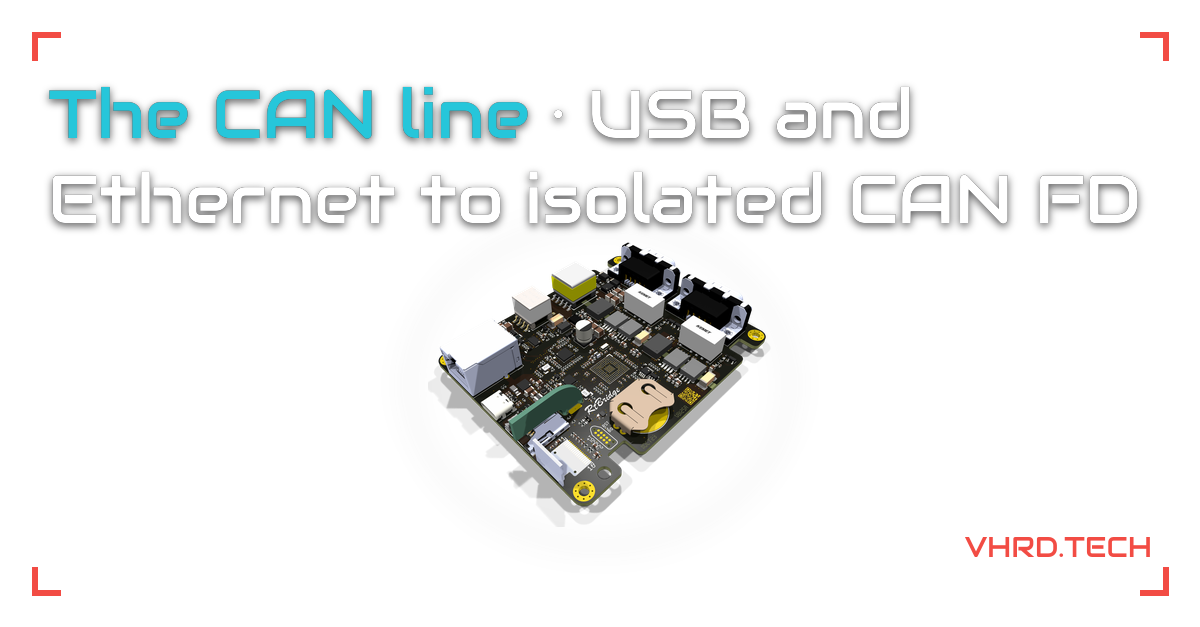
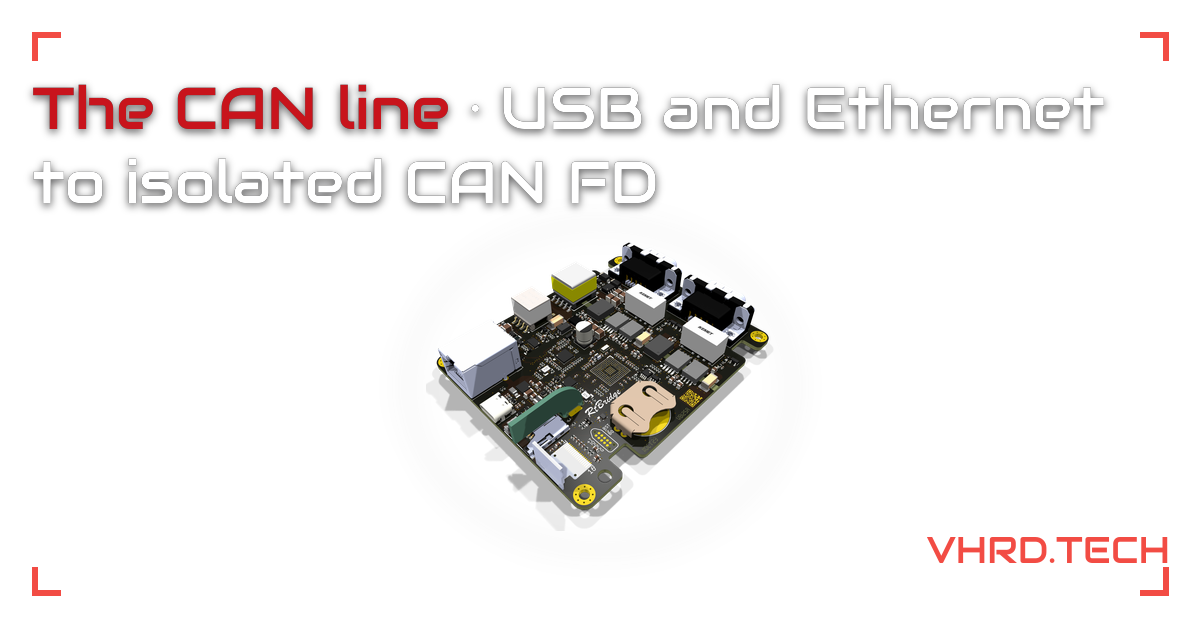
Share images, round 5: red name back, flush edges, more gap
- The product name before " · " is VHRD red (#c8141c, --vhrd-red /
  light.accent) again, on every image: red was dropped for a signal
  colour last round, but Roman wants the brand red back. The corners
  and the wordmark keep their own #f24c44, unchanged.
- The headline's first line and the wordmark now sit flush with the
  frame's own left and right edges (the ink itself, not a font's or a
  raster's side bearing): "the D of Donguru" lands exactly on the left
  corners' outer vertical stroke, the last H of VHRD.TECH on the right
  corners'.
- A clearly visible gap now separates the headline from the board (it
  sat right on top of it before); the wordmark is about 1.3x bigger,
  still with a clear gap from the board. The headline drops to a
  uniform 42px cap height (still well past "no small print") to make
  room for both without crowding the frame's own margins.

Changed region(s): [[0.0308, 0.1212, 0.9558, 0.8182], [0.7708, 0.8485, 0.9867, 0.9091]]

diff --git a/tools/og_images.py b/tools/og_images.py
@@ -61,6 +61,9 @@ JPEG_QUALITY = 90  # no subsampling (4:4:4) and not progressive, so a scraper th
 # a progressive JPEG (or one that chokes on 4:2:0 chroma) still gets the whole, sharp image
 
 RED = (242, 76, 68, 255)  # vhrd_brand dark.red (#f24c44): the corner marks and the wordmark only, never text
+TEXT_RED = (0xc8, 0x14, 0x1c, 255)  # vhrd_brand --vhrd-red / light.accent (#c8141c): the headline's product
+# name, on every image alike (Roman, round 5, "one more round" pass, 6 Nov 2026) — a different red from the
+# corners' and wordmark's #f24c44, which stays theirs only.
 INK = (26, 26, 26, 255)  # vhrd_brand light.text (#1a1a1a): the JPEG headline's body colour, solid, on white
 WHITE = (255, 255, 255, 255)  # the PNG headline's body colour, solid, with a soft dark shadow (SHADOW_* below)
 GLOW = (255, 255, 255, 16)  # a faint halo behind the board, just enough that a dark board's edge doesn't vanish
@@ -72,81 +75,62 @@ MARK_LEN, MARK_W = 28, 5  # the corner marks' leg length and thickness, like .fi
 # round 5, 6 Nov 2026).
 FRAME_MARGIN = 32
 # Everything — headline, board, wordmark — stays inside the corner-marked frame with its own margin, clear of
-# the corner marks' own legs too.
+# the corner marks' own legs too. The bottom margin is a little tighter than the top's: there is no headline
+# text to clear down there, only the wordmark's own row.
 CONTENT_PAD_X = 16
-CONTENT_PAD_Y = MARK_LEN + 10
+CONTENT_PAD_Y_TOP = MARK_LEN + 10
+CONTENT_PAD_Y_BOTTOM = MARK_LEN + 4
 
-# The headline: Audiowide (the wordmark's face), left-aligned at the top of the frame, wrapped to at most two
-# lines, shrinking from HEAD_TARGET_CAP down to HEAD_MIN_CAP ("no small print") if it does not fit. The words
-# up to " · " (the product headlines below) are set in that page's own signal colour (`sig`, the same one its
-# traces use on the real page) rather than the brand red, which is reserved for the corners and the wordmark;
-# the rest is the body colour (AGENTS.md "Conventions", Roman, round 5, 6 Nov 2026).
-HEAD_TARGET_CAP = 48
-HEAD_MIN_CAP = 40
+# The headline: Audiowide (the wordmark's face), its capital letters' ink flush with the left corners' own
+# outer edge (not an extra inset — "the D of Donguru" sits on the imaginary line the corner marks' vertical
+# strokes draw), wrapped to at most two lines at HEAD_TARGET_CAP ("no small print"; every headline below fits
+# two lines there, so there is no further shrink floor this round). The words up to " · " (the product
+# headlines below) are set in TEXT_RED; the rest is the body colour (AGENTS.md "Conventions", Roman, round 5,
+# 6 Nov 2026).
+HEAD_TARGET_CAP = 42
+HEAD_MIN_CAP = 40  # a floor, not reached by any headline below at the current width; kept for a future one
 HEAD_MAX_LINES = 2
 HEAD_LINE_PITCH_FACTOR = 1.25
-HEAD_BLOCK_H = 156  # reserved above the board, fixed across pages so the board sits at the same height on each
-HEAD_BOARD_GAP = 16
+HEAD_BLOCK_H = 140  # reserved above the board, fixed across pages so the board sits at the same height on each
+HEAD_BOARD_GAP = 32  # a clearly visible gap: the headline sat right on top of the board before this (Roman,
+# round 5, "one more round" pass, 6 Nov 2026)
 
 # The board's own bounding box (the render's margin is transparent) is scaled to fit this box, centred
 # horizontally on the canvas and vertically in the band below the headline and above the wordmark, well inside
 # the HxH square a square crop keeps.
 SAFE_W = 580
-WORDMARK_H = 20
-BOARD_WORDMARK_GAP = 10
+WORDMARK_H = 26  # 1.3x the wordmark's previous 20px (Roman, round 5, "one more round" pass, 6 Nov 2026)
+BOARD_WORDMARK_GAP = 6
 # A soft dark shadow behind the white PNG headline (not an outline, which read as hollow), so it still reads on
 # a light background once a platform composites the transparency away.
 SHADOW_COLOR = (8, 8, 10, 170)
 SHADOW_OFFSET = (0, 3)
 SHADOW_BLUR = 4
 
-# The page's own signal colour (vhrd_brand web/tokens.css, the same one its traces use for this `sig`) for the
-# headline's product name, on white (the JPEG) and on black (the PNG, the dark-theme value, already lightened
-# enough for 4.5:1 there). --signal-power on white is only about 3:1, too weak for text, so that one case falls
-# back to the brand's --warning (#775403, 6.9:1), the next darker warm brand colour, rather than computing one
-# of our own (Roman, round 5, 6 Nov 2026).
-SIGNAL_LIGHT = {
-    "power": (0x77, 0x54, 0x03, 255),  # --warning, standing in for --signal-power (too weak on white)
-    "usb": (0x15, 0x65, 0xc0, 255),
-    "bus": (0x2e, 0x7d, 0x32, 255),
-    "can": (0x00, 0x83, 0x8f, 255),
-    "analog": (0x6a, 0x1b, 0x9a, 255),
-    "ctrl": (0x6e, 0x6e, 0x6e, 255),
-}
-SIGNAL_DARK = {
-    "power": (0xff, 0x9a, 0x3c, 255),
-    "usb": (0x5c, 0x9c, 0xf5, 255),
-    "bus": (0x5c, 0xb8, 0x60, 255),
-    "can": (0x26, 0xc6, 0xda, 255),
-    "analog": (0xb4, 0x7c, 0xd8, 255),
-    "ctrl": (0x9a, 0x9a, 0x9a, 255),
-}
-
 # the image's base name (static/img/og/<name>.png, transparent, for twitter:image, and <name>.jpg, flattened
-# onto white, for og:image), the board's render directory, its view, the image's alt text, the headline, and
-# the page's own `sig` (its signal colour, for the product name before " · "; None where there is no name).
+# onto white, for og:image), the board's render directory, its view, the image's alt text, and the headline.
 # Each name carries a version so LinkedIn, Facebook and Telegram, which cache a preview by its image URL, fetch
 # the new file instead of one they already have: "-4" for this round's headline and the /donguru image split
 # off the site default (Roman, round 5 of link previews, 6 Nov 2026).
 IMAGES = [
     ("default-4", "b153-donguru", "hero",
      "Donguru (B153), a USB-C dongle PCB, framed by red corner marks and the VHRD.TECH wordmark",
-     "Instruments for embedded development", None),
+     "Instruments for embedded development"),
     ("donguru-4", "b153-donguru", "hero",
      "Donguru (B153), a USB-C dongle PCB, framed by red corner marks and the VHRD.TECH wordmark",
-     "Donguru · one cable from your PC to your board", "usb"),
+     "Donguru · one cable from your PC to your board"),
     ("pinsmith-4", "b200-re-port", "hero",
      "Pinsmith (B200), a USB I/O PCB, framed by red corner marks and the VHRD.TECH wordmark",
-     "Pinsmith · digital and analog I/O over USB", "bus"),
+     "Pinsmith · digital and analog I/O over USB"),
     ("can-4", "b125-eth-2fdcan", "hero",
      "An Ethernet to dual isolated CAN FD bridge PCB (B125), framed by red corner marks and the VHRD.TECH wordmark",
-     "The CAN line · USB and Ethernet to isolated CAN FD", "can"),
+     "The CAN line · USB and Ethernet to isolated CAN FD"),
     ("software-4", "b129-cannify-micro", "hero",
      "CANnify Micro (B129), a breadboard CAN FD node PCB, framed by red corner marks and the VHRD.TECH wordmark",
-     "The software for our instruments", "usb"),
+     "The software for our instruments"),
     ("work-4", "b135-usb-fdcan", "hero",
      "A USB to isolated CAN FD bridge PCB (B135), framed by red corner marks and the VHRD.TECH wordmark",
-     "Boards and projects from the VHRD lab", "analog"),
+     "Boards and projects from the VHRD lab"),
 ]
 
 # Backgrounds the transparent PNG (twitter:image) might be filled with instead of its own alpha: X's three
@@ -173,7 +157,7 @@ def content_box():
     """The frame's interior, clear of the corner marks' own legs: everything drawn (headline, board, wordmark)
     stays inside this box."""
     fx0, fy0, fx1, fy1 = frame_box()
-    return fx0 + CONTENT_PAD_X, fy0 + CONTENT_PAD_Y, fx1 - CONTENT_PAD_X, fy1 - CONTENT_PAD_Y
+    return fx0 + CONTENT_PAD_X, fy0 + CONTENT_PAD_Y_TOP, fx1 - CONTENT_PAD_X, fy1 - CONTENT_PAD_Y_BOTTOM
 
 
 def board_render(board_dir, view):
@@ -188,11 +172,13 @@ def board_render(board_dir, view):
 
 def wordmark_png(width, height):
     """The VHRD.TECH wordmark (static/img/wordmark.svg), recoloured to a single red that reads on white and on
-    black alike, rasterised to the given pixel size with a transparent background."""
+    black alike, rasterised to the given pixel size with a transparent background, then cropped to its own ink
+    (not the raster canvas, which may carry a little padding) so the caller can align its right edge exactly."""
     svg = (ROOT / "static/img/wordmark.svg").read_text()
     svg = re.sub(r'fill="#[0-9a-fA-F]{6}"', f'fill="rgb{RED[:3]}"', svg)
     png_bytes = cairosvg.svg2png(bytestring=svg.encode(), output_width=width, output_height=height)
-    return Image.open(io.BytesIO(png_bytes)).convert("RGBA")
+    im = Image.open(io.BytesIO(png_bytes)).convert("RGBA")
+    return im.crop(im.getbbox())
 
 
 def draw_corner_marks(canvas):
@@ -247,19 +233,30 @@ def wrap_headline(headline, font, max_width, max_lines):
 
 
 def draw_headline(canvas, font_path, headline, fill, accent, shadow=False):
-    """The headline in Audiowide, left-aligned at the top of the frame's interior: up to two lines, shrinking
-    from HEAD_TARGET_CAP towards HEAD_MIN_CAP if it does not fit inside the frame, the words up to " · " in
-    accent (the page's own signal colour, or fill when there is no product name). shadow draws a soft dark halo
-    behind it first (the PNG variant, for a light background), rather than an outline."""
-    cx0, cy0, cx1, _ = content_box()
-    max_width = cx1 - cx0
+    """The headline in Audiowide: up to two lines at HEAD_TARGET_CAP (shrinking towards HEAD_MIN_CAP if one
+    somehow does not fit), the words up to " · " in accent (TEXT_RED), the rest in fill. The first line's
+    leading glyph's own ink — not its left side bearing — sits flush on the frame's left edge (the same line
+    the left corner marks' outer vertical edge draws), so it reads as "inside the frame" exactly, not inset
+    from it (Roman, round 5, "one more round" pass, 6 Nov 2026). shadow draws a soft dark halo behind the text
+    first (the PNG variant, for a light background), rather than an outline."""
+    fx0, _, fx1, _ = frame_box()
+    cy0 = content_box()[1]
     cap = HEAD_TARGET_CAP
     while True:
         font = font_for_cap_height(font_path, cap)
+        # the wrap width as if text started exactly at fx0: close enough for wrapping (the bearing correction
+        # below shifts the whole block by at most a few px) and never widens a line past the frame's own edge.
+        max_width = (fx1 - CONTENT_PAD_X) - fx0
         lines, fits = wrap_headline(headline, font, max_width, HEAD_MAX_LINES)
         if fits or cap <= HEAD_MIN_CAP:
             break
         cap -= 2
+
+    # The first glyph's own left bearing (the gap PIL's draw origin leaves before the ink starts): subtract it
+    # so the glyph's ink, not the nominal draw position, lands exactly on fx0.
+    first_word = lines[0][0][1]
+    bearing = ImageDraw.Draw(canvas).textbbox((0, 0), first_word, font=font)[0]
+    x_start = fx0 - bearing
 
     dot_at = next((i for i, w in enumerate(headline.split(" ")) if w == "·"), None)
     space = font.getlength(" ")
@@ -268,7 +265,7 @@ def draw_headline(canvas, font_path, headline, fill, accent, shadow=False):
     def paint(draw_fn):
         y = cy0
         for line in lines:
-            x = cx0
+            x = x_start
             for i, word in line:
                 colour = accent if dot_at is not None and i < dot_at else fill
                 draw_fn(x, y, word, colour)
@@ -315,10 +312,12 @@ def compose(board_dir, view, headline, font_path, headline_fill, accent, headlin
     canvas.alpha_composite(board, (x, y))
     draw_corner_marks(canvas)
 
-    # The wordmark sits in its own row at the bottom of the frame's interior, right-aligned: a fixed gap above
-    # the frame's bottom edge and below the board, so the two never touch (Roman, round 5, 6 Nov 2026).
+    # The wordmark sits in its own row at the bottom of the frame's interior, its own ink flush with the right
+    # corners' outer vertical edge (the same treatment as the headline's left edge, above), with a fixed gap
+    # above the frame's bottom edge and below the board, so the two never touch (Roman, round 5, 6 Nov 2026).
+    fx1 = frame_box()[2]
     wm = wordmark_png(round(WORDMARK_H * 13424 / 1434), WORDMARK_H)
-    wm_x, wm_y = cx1 - wm.width, cy1 - wm.height
+    wm_x, wm_y = fx1 - wm.width, cy1 - wm.height
     canvas.alpha_composite(wm, (wm_x, wm_y))
 
     draw_headline(canvas, font_path, headline, headline_fill, accent, headline_shadow)
@@ -367,17 +366,15 @@ def main():
     if W / H < MIN_CARD_RATIO:
         sys.exit(f"{W}x{H} is {W / H:.3f}:1, under the {MIN_CARD_RATIO}:1 LinkedIn needs for its large card")
     OUT.mkdir(parents=True, exist_ok=True)
-    for name, board_dir, view, _, headline, sig in IMAGES:
-        accent_light = SIGNAL_LIGHT[sig] if sig else INK
-        accent_dark = SIGNAL_DARK[sig] if sig else WHITE
-        img, bbox = compose(board_dir, view, headline, font_path, INK, accent_light)
+    for name, board_dir, view, _, headline in IMAGES:
+        img, bbox = compose(board_dir, view, headline, font_path, INK, TEXT_RED)
         # the square crop LinkedIn and messengers make from a 1.91:1 card: the middle H x H of the canvas
         square_left, square_right = (W - H) // 2, (W - H) // 2 + H
         if bbox[0] < square_left or bbox[2] > square_right:
             sys.exit(f"{name}: the board reaches x {bbox[0]}-{bbox[2]}, outside the {H}px square crop ({square_left}-{square_right})")
         # The transparent PNG, headline solid white with a soft dark shadow so it reads on X's light theme too.
         # Kept for twitter:image.
-        png_img, _ = compose(board_dir, view, headline, font_path, WHITE, accent_dark, headline_shadow=True)
+        png_img, _ = compose(board_dir, view, headline, font_path, WHITE, TEXT_RED, headline_shadow=True)
         write_image(OUT / f"{name}.png", png_img, "PNG", optimize=True)
         # The same frame flattened onto white, headline solid near-black, for og:image: quality ~90, 4:4:4
         # chroma (subsampling=0) and not progressive, so LinkedIn and Facebook show it sharp on the white card

diff --git a/FEATURES.md b/FEATURES.md
@@ -45,7 +45,7 @@ Status: ✅ done · 🚧 in progress · 📋 planned · 💡 idea · 🐛 bug
 
 - ✅ ASSET-1 board-renders: `just renders` (`scripts/render_boards.py`, uv) rebuilds `static/img/boards/<bnnn>-<slug>/` from the newest revision of each board's KiCad project in `~/git/hw`: hero (whole board, 3/4 angle, with margin), detail (tighter 3/4 close-up), top and bottom views via `kicad-cli pcb render` (transparent, raytraced, black solder mask / white silkscreen forced on a temp copy so `~/git/hw` is never touched), cropped tight, 2400px PNG source (not shipped) plus AVIF/WebP at 480/640/1280/1920px (`--variants` makes missing widths from the PNGs without KiCad), with a `manifest.toml` per board (product, revision, source file, hw git hash, per-view alt text). Silkscreen fonts are checked against `fc-list` before rendering, failing loudly on a missing one. 3D model library paths are machine-local env vars (`KICAD6..10_3DMODEL_DIR`, `VHRD_3DMODEL_DIR`), not committed. A board whose `.kicad_pcb` has no `(stackup ...)` at all (B198) gets a plain 2-layer one inserted on the temp copy before the colour patch, so it still comes out black-mask; a board with inner copper layers and no stackup fails loudly instead of guessing one. Covers the front-page boards (Donguru, Pinsmith, B125, B135), B129, B133, B107 FlexyRJ45, B146 DB-9 to Nano-Fit and B198 J-Link to Tag-Connect; board numbers as arguments (`just renders b129 b133`) render only those. The rest of `~/git/hw`'s boards are a later task.
 
-- ✅ ASSET-2 og-images: `just og` (`tools/og_images.py`, uv, Pillow and cairosvg, vhrd_brand's Audiowide ttf) writes the link-preview images under `static/img/og/`: a board's hero render, cropped to its own content, below a large Audiowide headline, inside a 1200x627 canvas (1.91:1, never 1200x630, which falls under the 1.91:1 ratio LinkedIn needs for its large card). Four red corner marks sit near the card's own edges (an even inset from the full canvas, not the square crop), enclosing the headline, the board and the wordmark with a margin, clear of the marks' own legs; the headline shrinks (a 48px cap height down to a 40px floor) to fit two lines there, the product name before " · " in that page's own signal colour (not red, which is reserved for the corners and the wordmark; `--signal-power`'s ~3:1 on white falls back to `--warning`); the board is scaled to fit a fixed band below the headline and above the wordmark's own row, so the board sits at the same height on every page and stays visible in the 627x627 square crop LinkedIn's small organic-post thumbnail and messengers make from it too — the wider corner frame and the headline are cut by that narrower crop, which is fine, since only the board needs to survive it; a faint halo sits tight to the board, and the wordmark keeps a fixed gap from it so the two never touch (round 5, Roman, 6 Nov 2026). Written twice per page, each truecolour and each name carrying a version so LinkedIn, Facebook and Telegram, which cache a preview by its image URL, fetch the new ones: a lossless RGBA PNG on a transparent background (`default-4.png`, ...; no palette quantization, which once came out blurry and posterised on LinkedIn's Post Inspector, Roman, 6 Nov 2026), headline solid white with a soft dark shadow (not an outline, which read hollow), for `twitter:image` (X reads it first and shows it on its own light or dark theme); and a JPEG (quality 90, 4:4:4 chroma, baseline not progressive) flattened onto white (`default-4.jpg`, ...), headline solid near-black, for `og:image` (LinkedIn and Facebook show a card on white and fill a transparent image's alpha with a dull grey instead, round 4, Roman, 6 Nov 2026). `templates/base.html` sets `author`, `og:site_name`, `og:locale`, `og:image`, `og:image:secure_url`, `og:image:type`, `og:image:width`/`height`/`alt` and `twitter:card` (`summary_large_image`) / `twitter:image` on every page, from `config.toml`'s `extra.og_image` / `extra.twitter_image` (the Donguru render) or a page's own (/donguru, /pinsmith, /can, /software, /work, each its own board and headline). Every page's meta description and `og:description` are 100-125 characters, the home page's naming no product. `tools/check_pages.py` checks every page's `og:image` is an absolute URL to a real 1200x627 truecolour JPEG at or above the 1.91:1 ratio matching its own width/height/secure_url meta, `twitter:image` a different, real 1200x627 truecolour PNG with an alpha channel, a non-empty alt that does not name a background colour, the description's length, and that no `og:*`/`twitter:*`/`description` meta tag appears twice. `just og --check` composites the default and /donguru images onto Facebook's and X's own card backgrounds, and at LinkedIn's small ~160px thumbnail size, into `target/shots/og5-*.png`, for a by-eye look (round 5, Roman, 6 Nov 2026)
+- ✅ ASSET-2 og-images: `just og` (`tools/og_images.py`, uv, Pillow and cairosvg, vhrd_brand's Audiowide ttf) writes the link-preview images under `static/img/og/`: a board's hero render, cropped to its own content, below a large Audiowide headline, inside a 1200x627 canvas (1.91:1, never 1200x630, which falls under the 1.91:1 ratio LinkedIn needs for its large card). Four red corner marks sit near the card's own edges (an even inset from the full canvas, not the square crop), enclosing the headline, the board and the wordmark with a margin, clear of the marks' own legs; the headline's first line's own ink sits flush with the left corners' outer edge (Audiowide, 42px cap height, up to two lines), the product name before " · " in `--vhrd-red` (`#c8141c`, not the corners'/wordmark's `#f24c44`); the board is scaled to fit a fixed band with a clear gap below the headline and above the wordmark's own row (a first pass sat the board right under the text), so the board sits at the same height on every page and stays visible in the 627x627 square crop LinkedIn's small organic-post thumbnail and messengers make from it too — the wider corner frame and the headline are cut by that narrower crop, which is fine, since only the board needs to survive it; a faint halo sits tight to the board; the wordmark (about 1.3x its first-round size) keeps a fixed gap from the board and its own ink sits flush with the right corners' outer edge (round 5, Roman, 6 Nov 2026). Written twice per page, each truecolour and each name carrying a version so LinkedIn, Facebook and Telegram, which cache a preview by its image URL, fetch the new ones: a lossless RGBA PNG on a transparent background (`default-4.png`, ...; no palette quantization, which once came out blurry and posterised on LinkedIn's Post Inspector, Roman, 6 Nov 2026), headline solid white with a soft dark shadow (not an outline, which read hollow), for `twitter:image` (X reads it first and shows it on its own light or dark theme); and a JPEG (quality 90, 4:4:4 chroma, baseline not progressive) flattened onto white (`default-4.jpg`, ...), headline solid near-black, for `og:image` (LinkedIn and Facebook show a card on white and fill a transparent image's alpha with a dull grey instead, round 4, Roman, 6 Nov 2026). `templates/base.html` sets `author`, `og:site_name`, `og:locale`, `og:image`, `og:image:secure_url`, `og:image:type`, `og:image:width`/`height`/`alt` and `twitter:card` (`summary_large_image`) / `twitter:image` on every page, from `config.toml`'s `extra.og_image` / `extra.twitter_image` (the Donguru render) or a page's own (/donguru, /pinsmith, /can, /software, /work, each its own board and headline). Every page's meta description and `og:description` are 100-125 characters, the home page's naming no product. `tools/check_pages.py` checks every page's `og:image` is an absolute URL to a real 1200x627 truecolour JPEG at or above the 1.91:1 ratio matching its own width/height/secure_url meta, `twitter:image` a different, real 1200x627 truecolour PNG with an alpha channel, a non-empty alt that does not name a background colour, the description's length, and that no `og:*`/`twitter:*`/`description` meta tag appears twice. `just og --check` composites the default and /donguru images onto Facebook's and X's own card backgrounds, and at LinkedIn's small ~160px thumbnail size, into `target/shots/og5-*.png`, for a by-eye look (round 5, Roman, 6 Nov 2026)
 
 ## PREVIEW: publishing
 

diff --git a/AGENTS.md b/AGENTS.md
@@ -239,25 +239,25 @@ per page (no blog, no articles), so `author` is the same for every page and ther
     earlier pass framed a narrower square in the middle, letting the headline bleed past it and the wordmark
     overlap the board. LinkedIn's narrower 1:1 centre crop cuts the corners and the headline — intended, since
     only the board needs to stay inside that one (above; Roman, round 5, 6 Nov 2026).
-  - **The headline** sits left-aligned at the top of the frame's interior, up to two lines, Audiowide sized as
-    large as it can be while still fitting — shrinking from a 48px cap height down to a 40px floor ("no small
-    print") if it does not fit two lines at the frame's width. The words up to a " · " separator are set in
-    that page's own signal colour (`--signal-<sig>` in vhrd_brand's `web/tokens.css`, the same one its traces
-    use), not the brand red, which is reserved for the corners and the wordmark; the rest is in the body
-    colour. `--signal-power` is only about 3:1 on white, too weak for text, so a page whose `sig` is `power`
-    falls back to `--warning` there (6.9:1), the next darker warm brand colour, rather than a colour made up
-    for the purpose; the PNG always uses the dark-theme value of the signal colour, already light enough for
-    4.5:1 on black.
-  - The board is scaled to fit well inside a fixed band below the headline (a reserved height, the same on
-    every page, so the board sits at the same height across them) and above the wordmark's own row, centred
-    horizontally on the canvas, with margin either side of the 627×627 square crop LinkedIn and messengers make
-    from a 1.91:1 card, so the whole board stays in view there too; the script refuses to write a file where it
-    wouldn't.
+  - **The headline** sits at the top of the frame's interior, its first line's leading glyph's own ink — not
+    the font's left side bearing — flush with the left corners' outer vertical edge, the same line their
+    strokes draw ("the D of Donguru" exactly on it, every image; Roman, round 5, "one more round" pass, 6 Nov
+    2026). Up to two lines, Audiowide at a 42px cap height (every headline below fits two lines there, so there
+    is no further shrink floor this round). The words up to a " · " separator are set in `--vhrd-red` /
+    light-theme `--accent` (`#c8141c`), a different red from the corners' and wordmark's `#f24c44`; the rest is
+    in the body colour.
+  - The board is scaled to fit well inside a fixed band below the headline, with a clearly visible gap between
+    them (a first pass sat the board right under the text) — a reserved band height, the same on every page, so
+    the board sits at the same height across them — and above the wordmark's own row, centred horizontally on
+    the canvas, with margin either side of the 627×627 square crop LinkedIn and messengers make from a 1.91:1
+    card, so the whole board stays in view there too; the script refuses to write a file where it wouldn't.
   - A faint white halo (blurred, low opacity, tight to the board) sits behind it: close to invisible on a white
     or light card, and just enough to keep a dark board's edge from vanishing into a black one.
-  - A small red VHRD.TECH wordmark (from `static/img/wordmark.svg`, recoloured to the one red so it reads on
-    white and on black alike) sits in its own row at the bottom of the frame's interior, right-aligned, with a
-    fixed gap above the frame's bottom edge and below the board, so the two never touch.
+  - A red VHRD.TECH wordmark (from `static/img/wordmark.svg`, recoloured to the one red so it reads on white
+    and on black alike; about 1.3× its first-round size), its own ink — not the raster canvas's edge — flush
+    with the right corners' outer vertical edge, same treatment as the headline's left edge, sits in its own
+    row at the bottom of the frame's interior, with a fixed gap above the frame's bottom edge and below the
+    board, so the two never touch.
   - Each image stays a few hundred KB, under the script's 1 MB budget: LinkedIn and Facebook accept files up to
     5-8 MB, but a smaller one loads faster.
   - Run it again after a change to a board's hero render, a headline, the wordmark or the script itself; `just

diff --git a/CHANGELOG.md b/CHANGELOG.md
@@ -4,7 +4,7 @@
 
 ### Added
 
-- Share images, round 5 (ASSET-2 og-images): a large Audiowide headline above the board on every `og:image`/`twitter:image`, left-aligned, wrapped to at most two lines, the product name before " · " in that page's own signal colour (its `sig`, matching the real page's traces), not red, which stays for the corners and the wordmark only; `--signal-power`'s weak 3:1 on white falls back to `--warning`. `/donguru` gets its own image, split off the site default. The canvas stays exactly 1200x627 (1.91:1): 1200x630, considered this round, falls to 1.905:1, under the 1.91:1 LinkedIn needs to show its large card at all, so it was dropped — `tools/check_pages.py` now asserts the ratio explicitly, not only the exact pixel size. The four red corner marks sit near the card's own edges (not a narrower square in the middle), enclosing the headline, the board and the wordmark with a margin, after a first pass let the headline run past the narrower frame and the wordmark overlap the board; LinkedIn's narrower 1:1 centre crop still cuts the corners and the headline, which is fine since only the board needs to survive it. The PNG headline is solid white with a soft shadow, not the hollow outline a first pass used; the board sits in a fixed band so it lands at the same height on every page. Every page's description is now 100-125 characters, not 100-160 (LinkedIn warns under 100 and truncates near 125). File names bump to `-4` so LinkedIn, Facebook and Telegram refetch instead of showing a cached preview.
+- Share images, round 5 (ASSET-2 og-images): a large Audiowide headline above the board on every `og:image`/`twitter:image`, wrapped to at most two lines, the product name before " · " in `--vhrd-red` (`#c8141c`), not the corners'/wordmark's `#f24c44`. `/donguru` gets its own image, split off the site default. The canvas stays exactly 1200x627 (1.91:1): 1200x630, considered this round, falls to 1.905:1, under the 1.91:1 LinkedIn needs to show its large card at all, so it was dropped — `tools/check_pages.py` now asserts the ratio explicitly, not only the exact pixel size. The four red corner marks sit near the card's own edges (not a narrower square in the middle), enclosing the headline, the board and the wordmark with a margin: the headline's first line and the wordmark's own ink sit flush with the left and right corners' outer edges respectively (not inset further, and not their font/raster bounding boxes — the visible ink itself); LinkedIn's narrower 1:1 centre crop still cuts the corners and the headline, which is fine since only the board needs to survive it. The PNG headline is solid white with a soft shadow, not the hollow outline a first pass used; the board sits in a fixed band with a clearly visible gap below the headline (a first pass sat it right under the text), and the wordmark is about 1.3x bigger. Every page's description is now 100-125 characters, not 100-160 (LinkedIn warns under 100 and truncates near 125). File names bump to `-4` so LinkedIn, Facebook and Telegram refetch instead of showing a cached preview.
 - /faq (SITE-16 faq-page): site-wide questions and answers from the approved FAQ draft, as `<details>` items grouped under three headings, The products, Working with us, The site, each with a stable anchor (`/faq/#cookies`, `#open-source`, `#shipping`, `#buy`...) that opens the right item on its own, no script needed. "Which computers do the tools work on?" names the real tools: IOWeaver, RockFace, `dg`, `cnt`, `ww` and `bedrock-lint` all run on Linux, Windows and macOS. Linked from the footer next to Privacy.
 - `LICENSE-MIT` and `LICENSE-APACHE` for the repo's code (templates, CSS, JS, `tools/`, `scripts/`, the `vhrd_notify` service); the content stays © VHRD.TECH AS, all rights reserved, and the IBM Plex fonts keep their own OFL notice.
 - Roman's photo next to "Who makes it" on /about (SITE-17 about-photo; Roman, 5 Nov 2026, it is already public on GitHub). AVIF and WebP at its native 460 px, EXIF and other metadata stripped, next to the founder paragraph on wider screens and centred above it on a phone.
